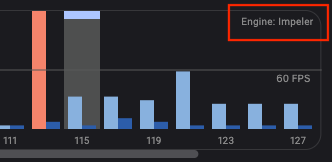
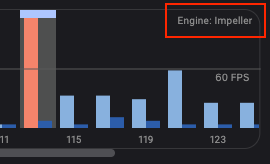
fixes

diff --git a/packages/devtools_app/lib/src/screens/performance/panes/flutter_frames/flutter_frames_chart.dart b/packages/devtools_app/lib/src/screens/performance/panes/flutter_frames/flutter_frames_chart.dart
@@ -173,6 +173,7 @@ class _FlutterFramesChartState extends State<_FlutterFramesChart> {
               frames: widget.frames,
               displayRefreshRate: widget.displayRefreshRate,
               offlineMode: widget.offlineMode,
+              impellerEnabled: widget.impellerEnabled,
             ),
           ),
         ],
@@ -347,7 +348,7 @@ class _FramesChartState extends State<FramesChart> with AutoDisposeMixin {
           right: denseSpacing,
           top: densePadding,
           child: Text(
-            'Engine: ${widget.impellerEnabled ? 'Impeler' : 'Skia'}',
+            'Engine: ${widget.impellerEnabled ? 'Impeller' : 'Skia'}',
             style: themeData.subtleChartTextStyle,
           ),
         ),
@@ -364,6 +365,7 @@ class FramesChartControls extends StatelessWidget {
     required this.frames,
     required this.displayRefreshRate,
     required this.offlineMode,
+    required this.impellerEnabled,
   });
 
   static const _pauseTooltip = 'Pause Flutter frame recording';
@@ -377,6 +379,8 @@ class FramesChartControls extends StatelessWidget {
   final double displayRefreshRate;
 
   final bool offlineMode;
+
+  final bool impellerEnabled;
 
   @override
   Widget build(BuildContext context) {
@@ -406,10 +410,11 @@ class FramesChartControls extends StatelessWidget {
             const LegendEntry('Frame Time (UI)', mainUiColor),
             const LegendEntry('Frame Time (Raster)', mainRasterColor),
             const LegendEntry('Jank (slow frame)', uiJankColor),
-            LegendEntry(
-              'Shader Compilation',
-              shaderCompilationColor.background,
-            ),
+            if (!impellerEnabled)
+              LegendEntry(
+                'Shader Compilation',
+                shaderCompilationColor.background,
+              ),
           ],
         ),
         AverageFPS(

diff --git a/packages/devtools_app/release_notes/NEXT_RELEASE_NOTES.md b/packages/devtools_app/release_notes/NEXT_RELEASE_NOTES.md
@@ -21,7 +21,8 @@ TODO: Remove this section if there are not any general updates.
 
 ## Performance updates
 
-* Add an indicator of the rendering engine to the Flutter Frames chart. - []()
+* Add an indicator of the rendering engine to the Flutter Frames chart. -
+[#6771](https://github.com/flutter/devtools/pull/6771)
 ![Flutter rendering engine text](images/flutter_frames_engine_text.png "Text describing the current flutter rendering engine")
 
 ## CPU profiler updates
